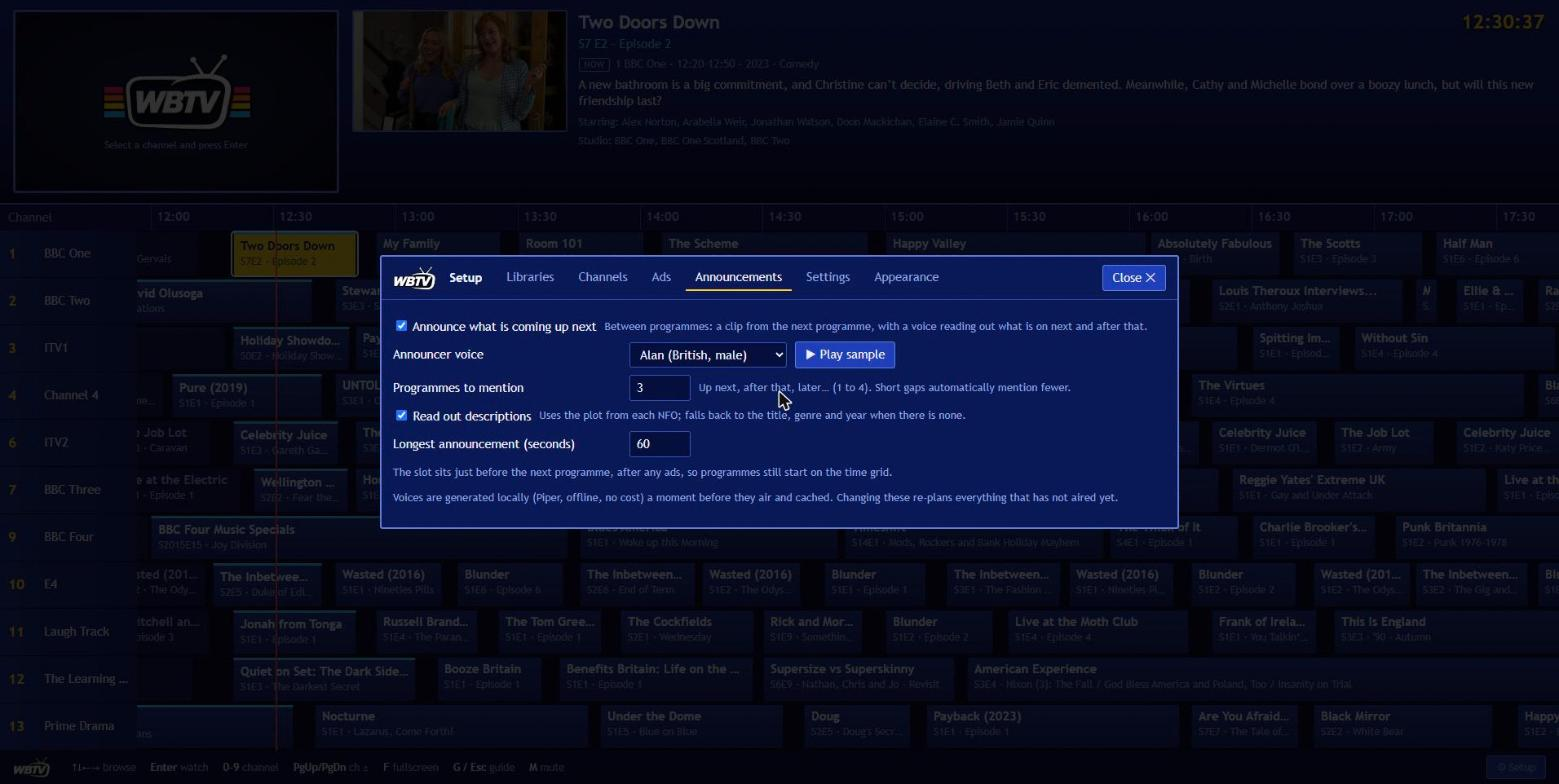
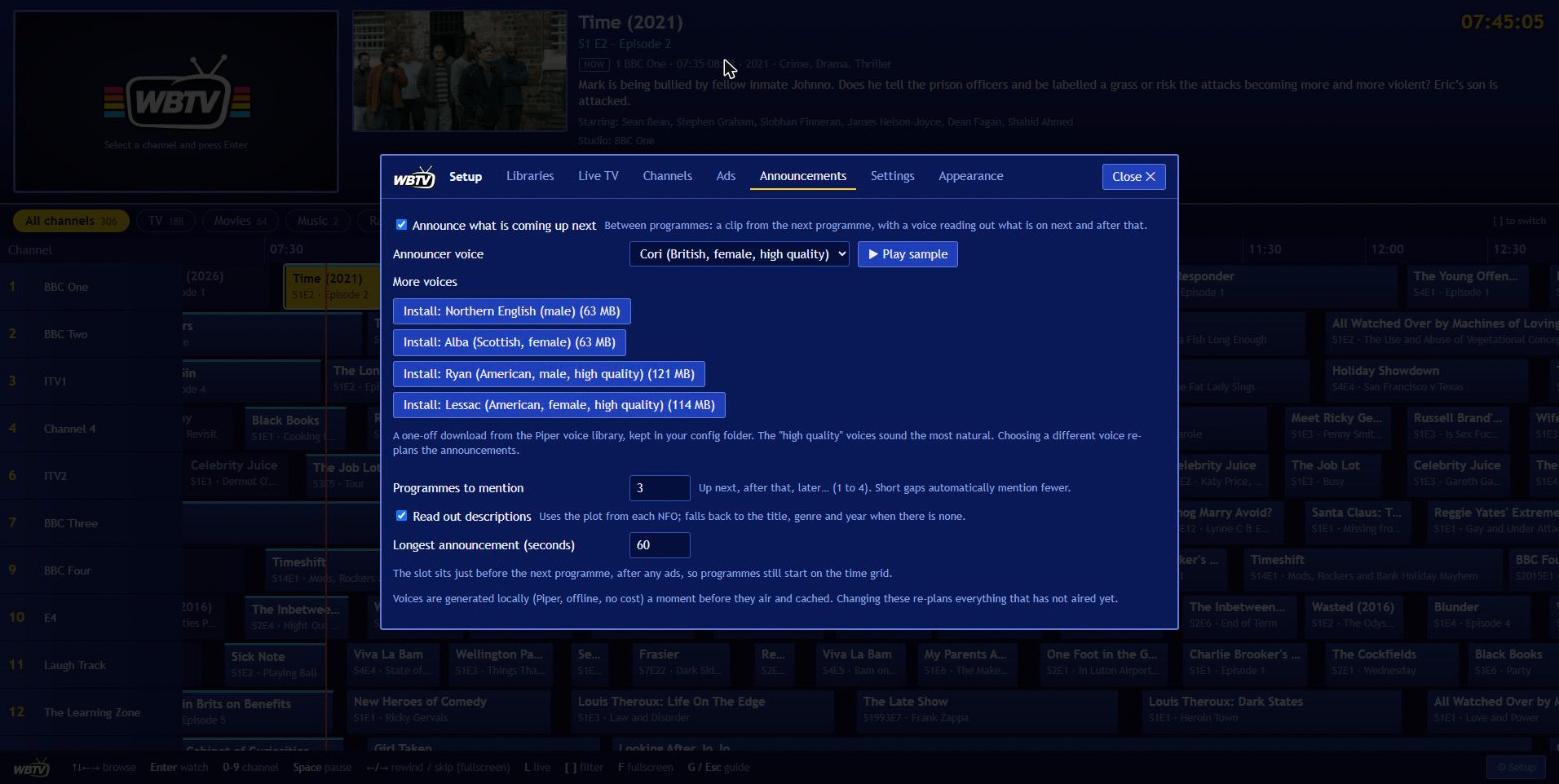
README: refreshed Setup screenshots (current UI, real library), added Live TV and Appearance

diff --git a/README.md b/README.md
@@ -182,12 +182,19 @@ Rename, renumber or switch off anything in **Setup**. Your edits survive rescans
 ## Setup guide
 
 <p align="center">
-  <img src="Images/Screenshots/web-setup-libraries.jpg" alt="Libraries" width="48%">
-  <img src="Images/Screenshots/web-setup-channels.jpg" alt="Channels" width="48%">
+  <img src="Images/Screenshots/web-setup-libraries.jpg" alt="Libraries: point WBTV at your folders" width="48%">
+  <img src="Images/Screenshots/web-setup-channels.jpg" alt="Channels: everything that was built for you, ready to rename" width="48%">
 </p>
 <p align="center">
-  <img src="Images/Screenshots/web-setup-ads.jpg" alt="Ads" width="48%">
-  <img src="Images/Screenshots/web-setup-announcements.jpg" alt="Announcements" width="48%">
+  <img src="Images/Screenshots/web-setup-livetv.jpg" alt="Live TV: playlists, streams and YouTube live" width="48%">
+  <img src="Images/Screenshots/web-setup-ads.jpg" alt="Ads: break timing, folders and links" width="48%">
+</p>
+<p align="center">
+  <img src="Images/Screenshots/web-setup-announcements.jpg" alt="Announcements: voices and what gets read out" width="48%">
+  <img src="Images/Screenshots/web-setup-settings.jpg" alt="Settings: scanning, smart scheduling and presentation" width="48%">
+</p>
+<p align="center">
+  <img src="Images/Screenshots/web-setup-appearance.jpg" alt="Appearance: nine themes" width="48%">
 </p>
 
 1. **Libraries**: add a folder and say what's in it: *TV Shows*, *Movies*, *Music videos*, *Radio* (and the spoken-word types) feed channels; *Ads* folders feed ad breaks.
